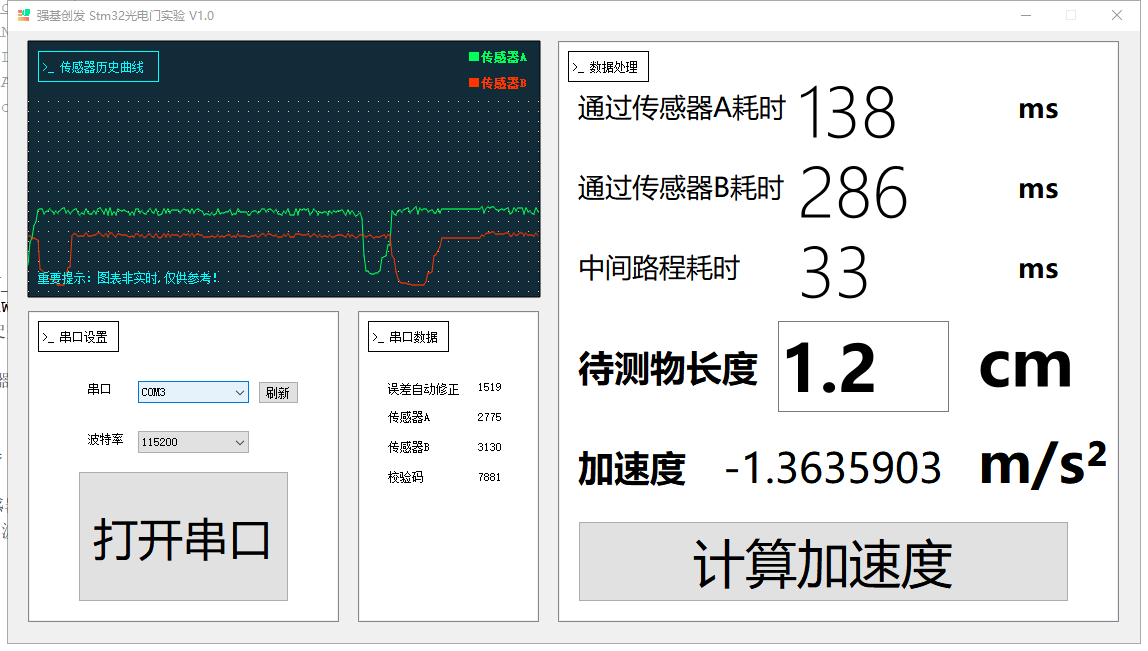
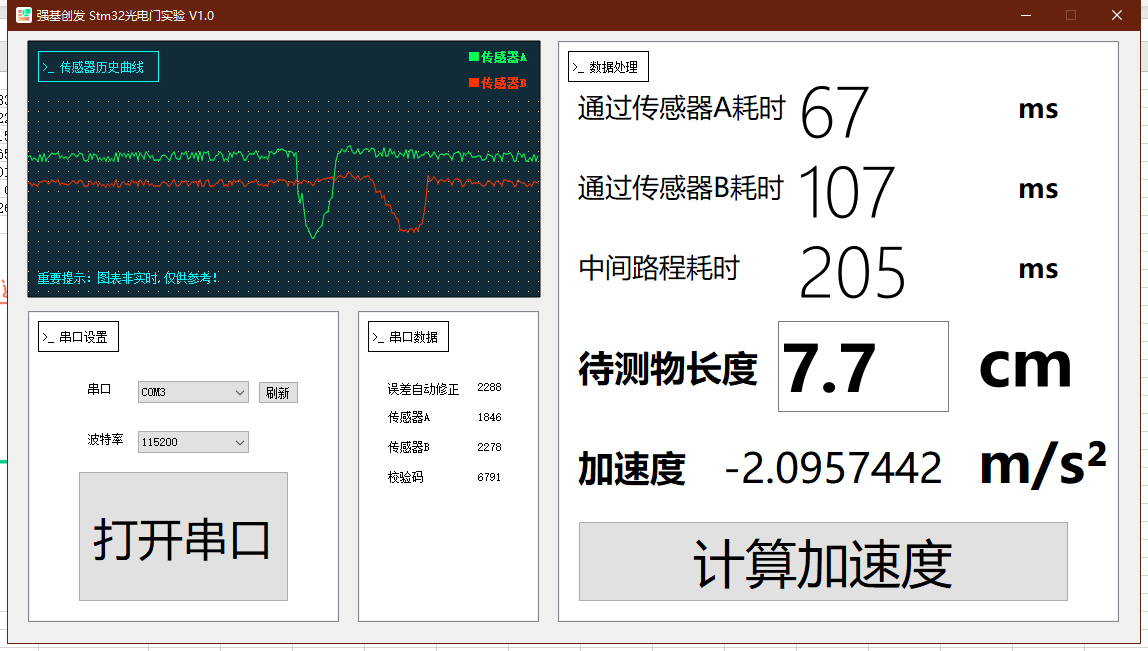
更新README
更新实验步骤
统一实验数据分析表格计算参考系

diff --git a/README.md b/README.md
@@ -1,0 +1,10 @@
+![](./WINDOWS/img/5.png)
+在这次实验，我们使用STM32单片机和由两个光敏电阻以及平行光源组组成的A和B两个光电门来计算运动物体的加速度，物体通过两个光敏电阻时会遮挡平行光，此时stm32单片机会记录下两个光敏电阻上的电位变化通过串口通讯把波形上传到计算机以待进一步分析，并且在STM32的OLED显示屏上显示出两个光敏电阻的遮光时间以及通过两个光敏电阻之间的时间差。
+![](./WINDOWS/img/4.png)
+上图为为实验具体示意图，现在有一遮光长度为7.7CM的热敏打印机，我们对其进行加速直到打印机进入光电门A，计算机记录下第一个遮光时间t1，待热敏打印机通过光电门B时，计算机会记录下通过离开光电门A后直到进入光电门B的时间差t2，最后热敏打印机离开光电门B，计算机最后记录下第二个遮光时间t3。热敏打印机进入光电门A后受到摩檫力作匀减速运动，利用热敏打印机遮光长度7.7CM组合t1和t3可以计算出通过光电门A、B的速度V1和V2,最后利用时间差t3可以计算出热敏打印机作匀减运动的加速度！
+![](./WINDOWS/img/7.png)
+![](./WINDOWS/img/3.png)
+为了方便在大屏幕上进行演示，我还制作了上位机软件，根据STM32通过串口通讯上传的波形数据以及处理好的时间数据对加速度进行计算
+![](./WINDOWS/img/1.png)
+我们再重复进行多次实验，去除最高和最低的数据，得出这张加速度表
+![](./WINDOWS/img/6.png)
